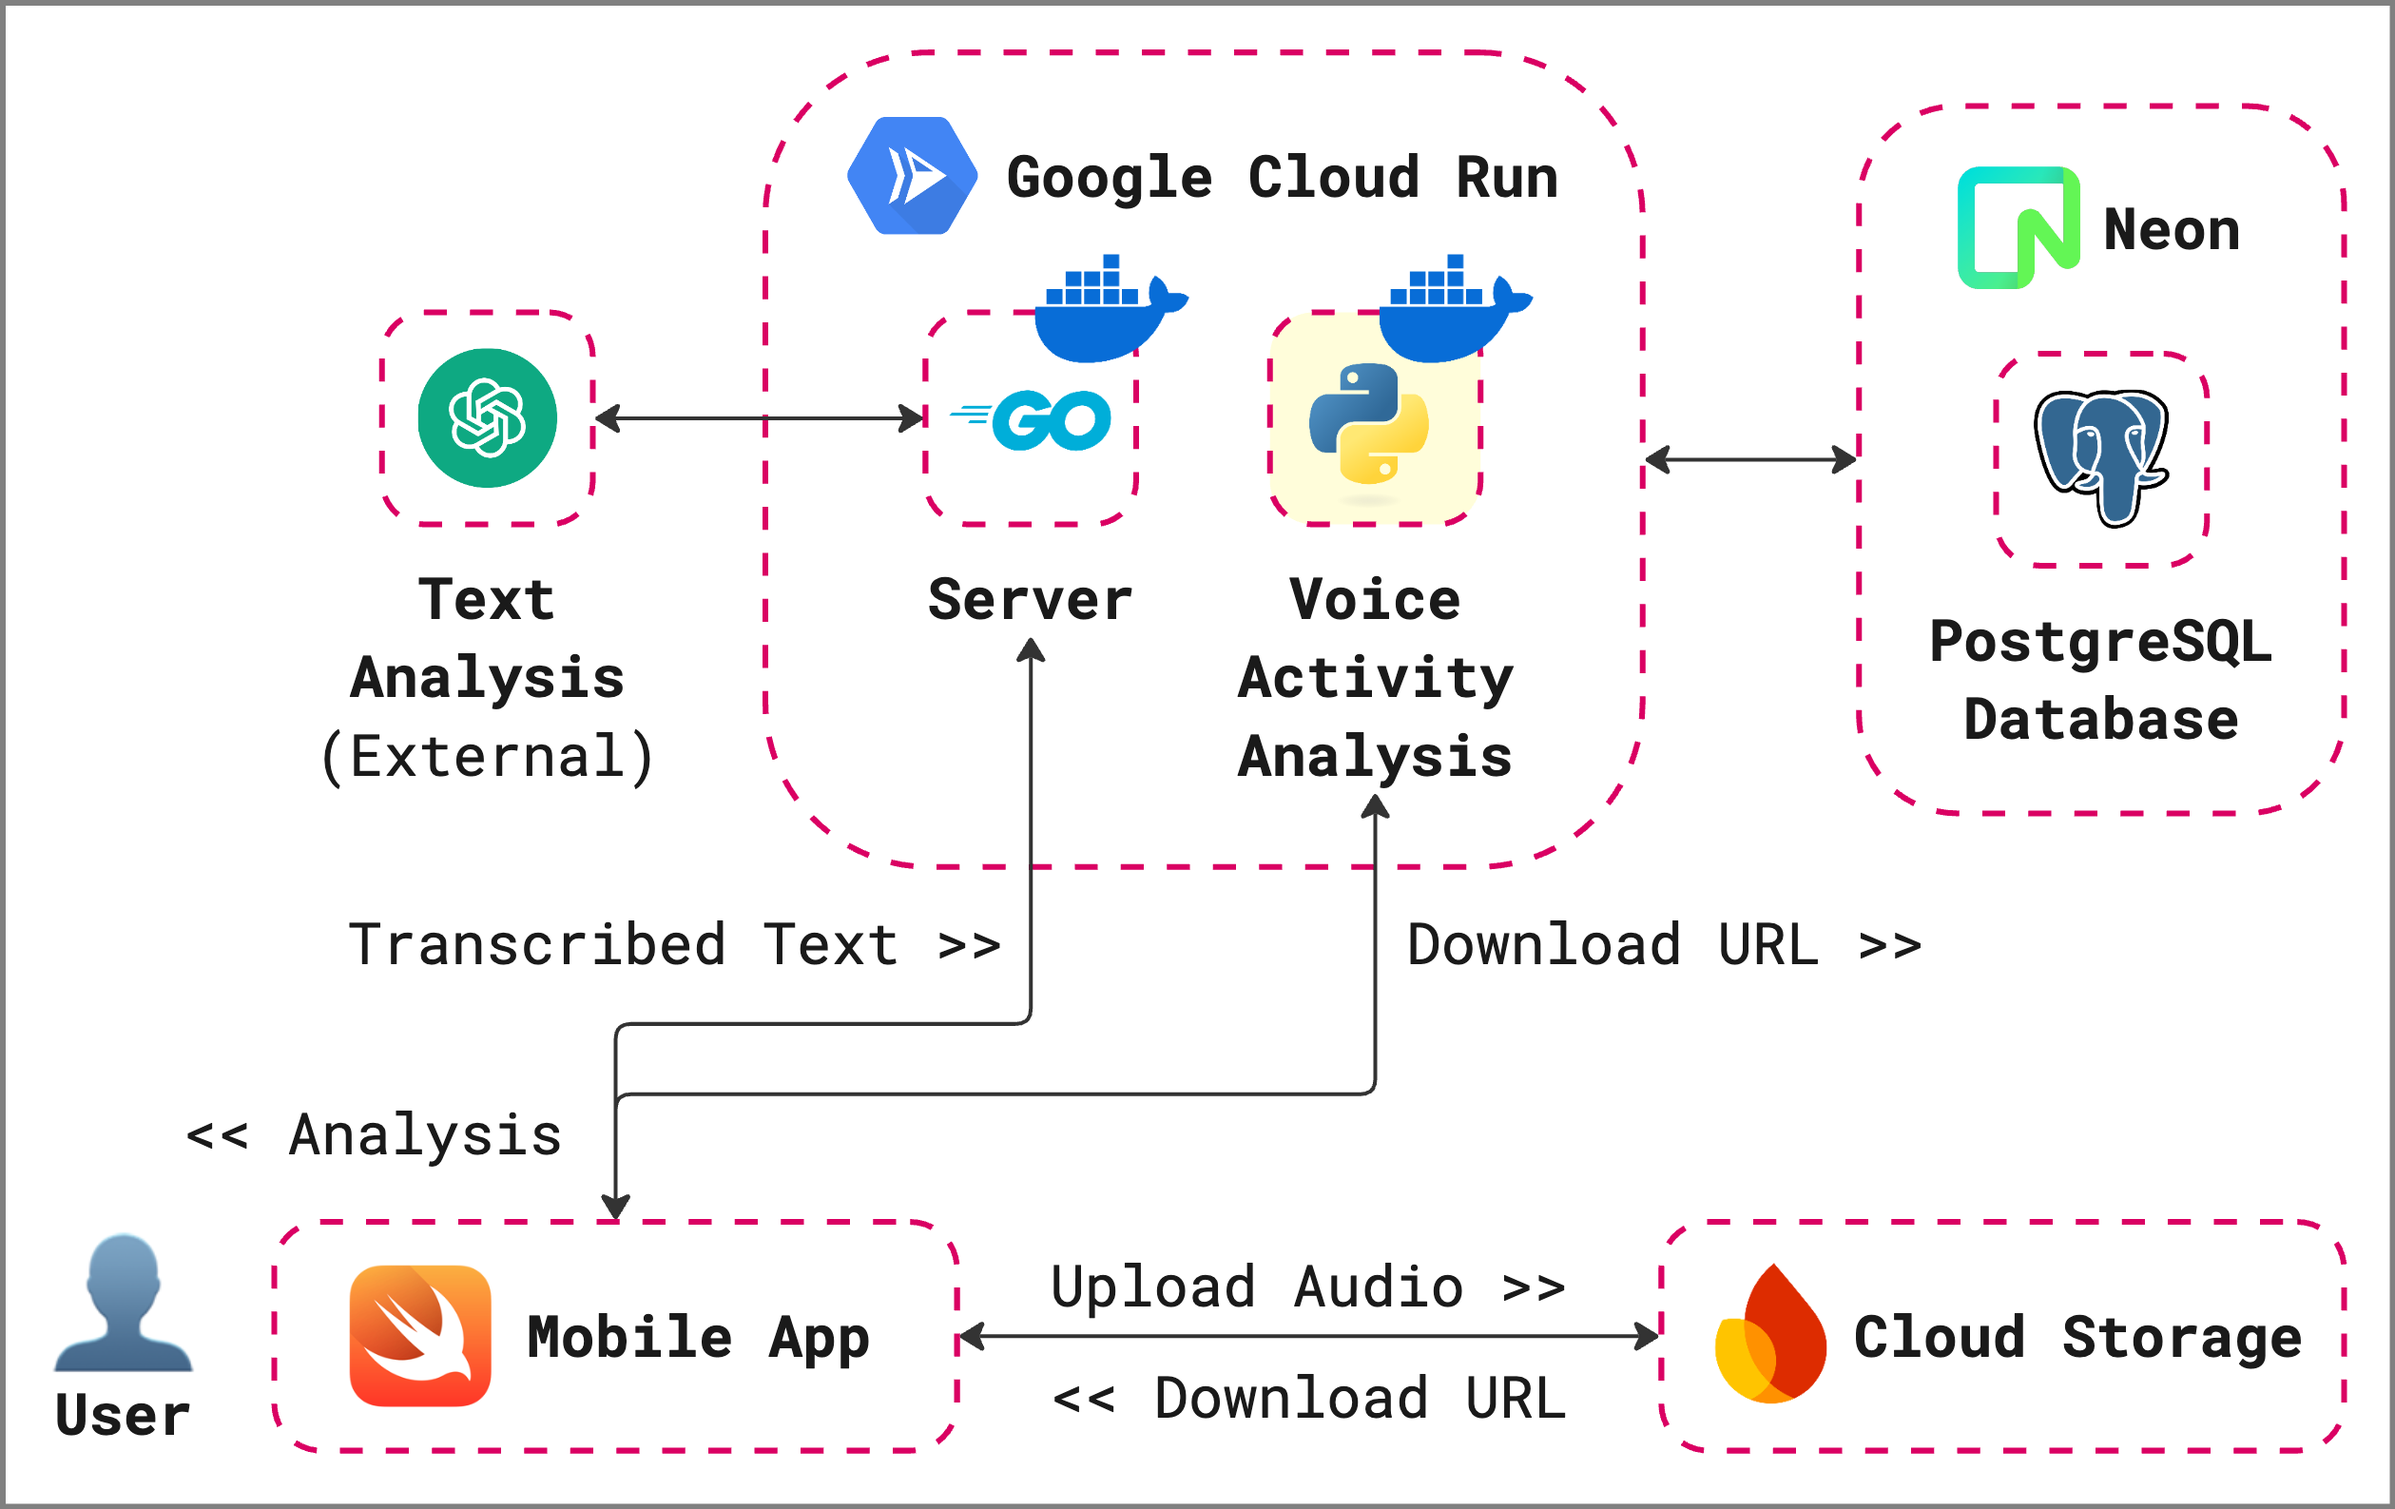
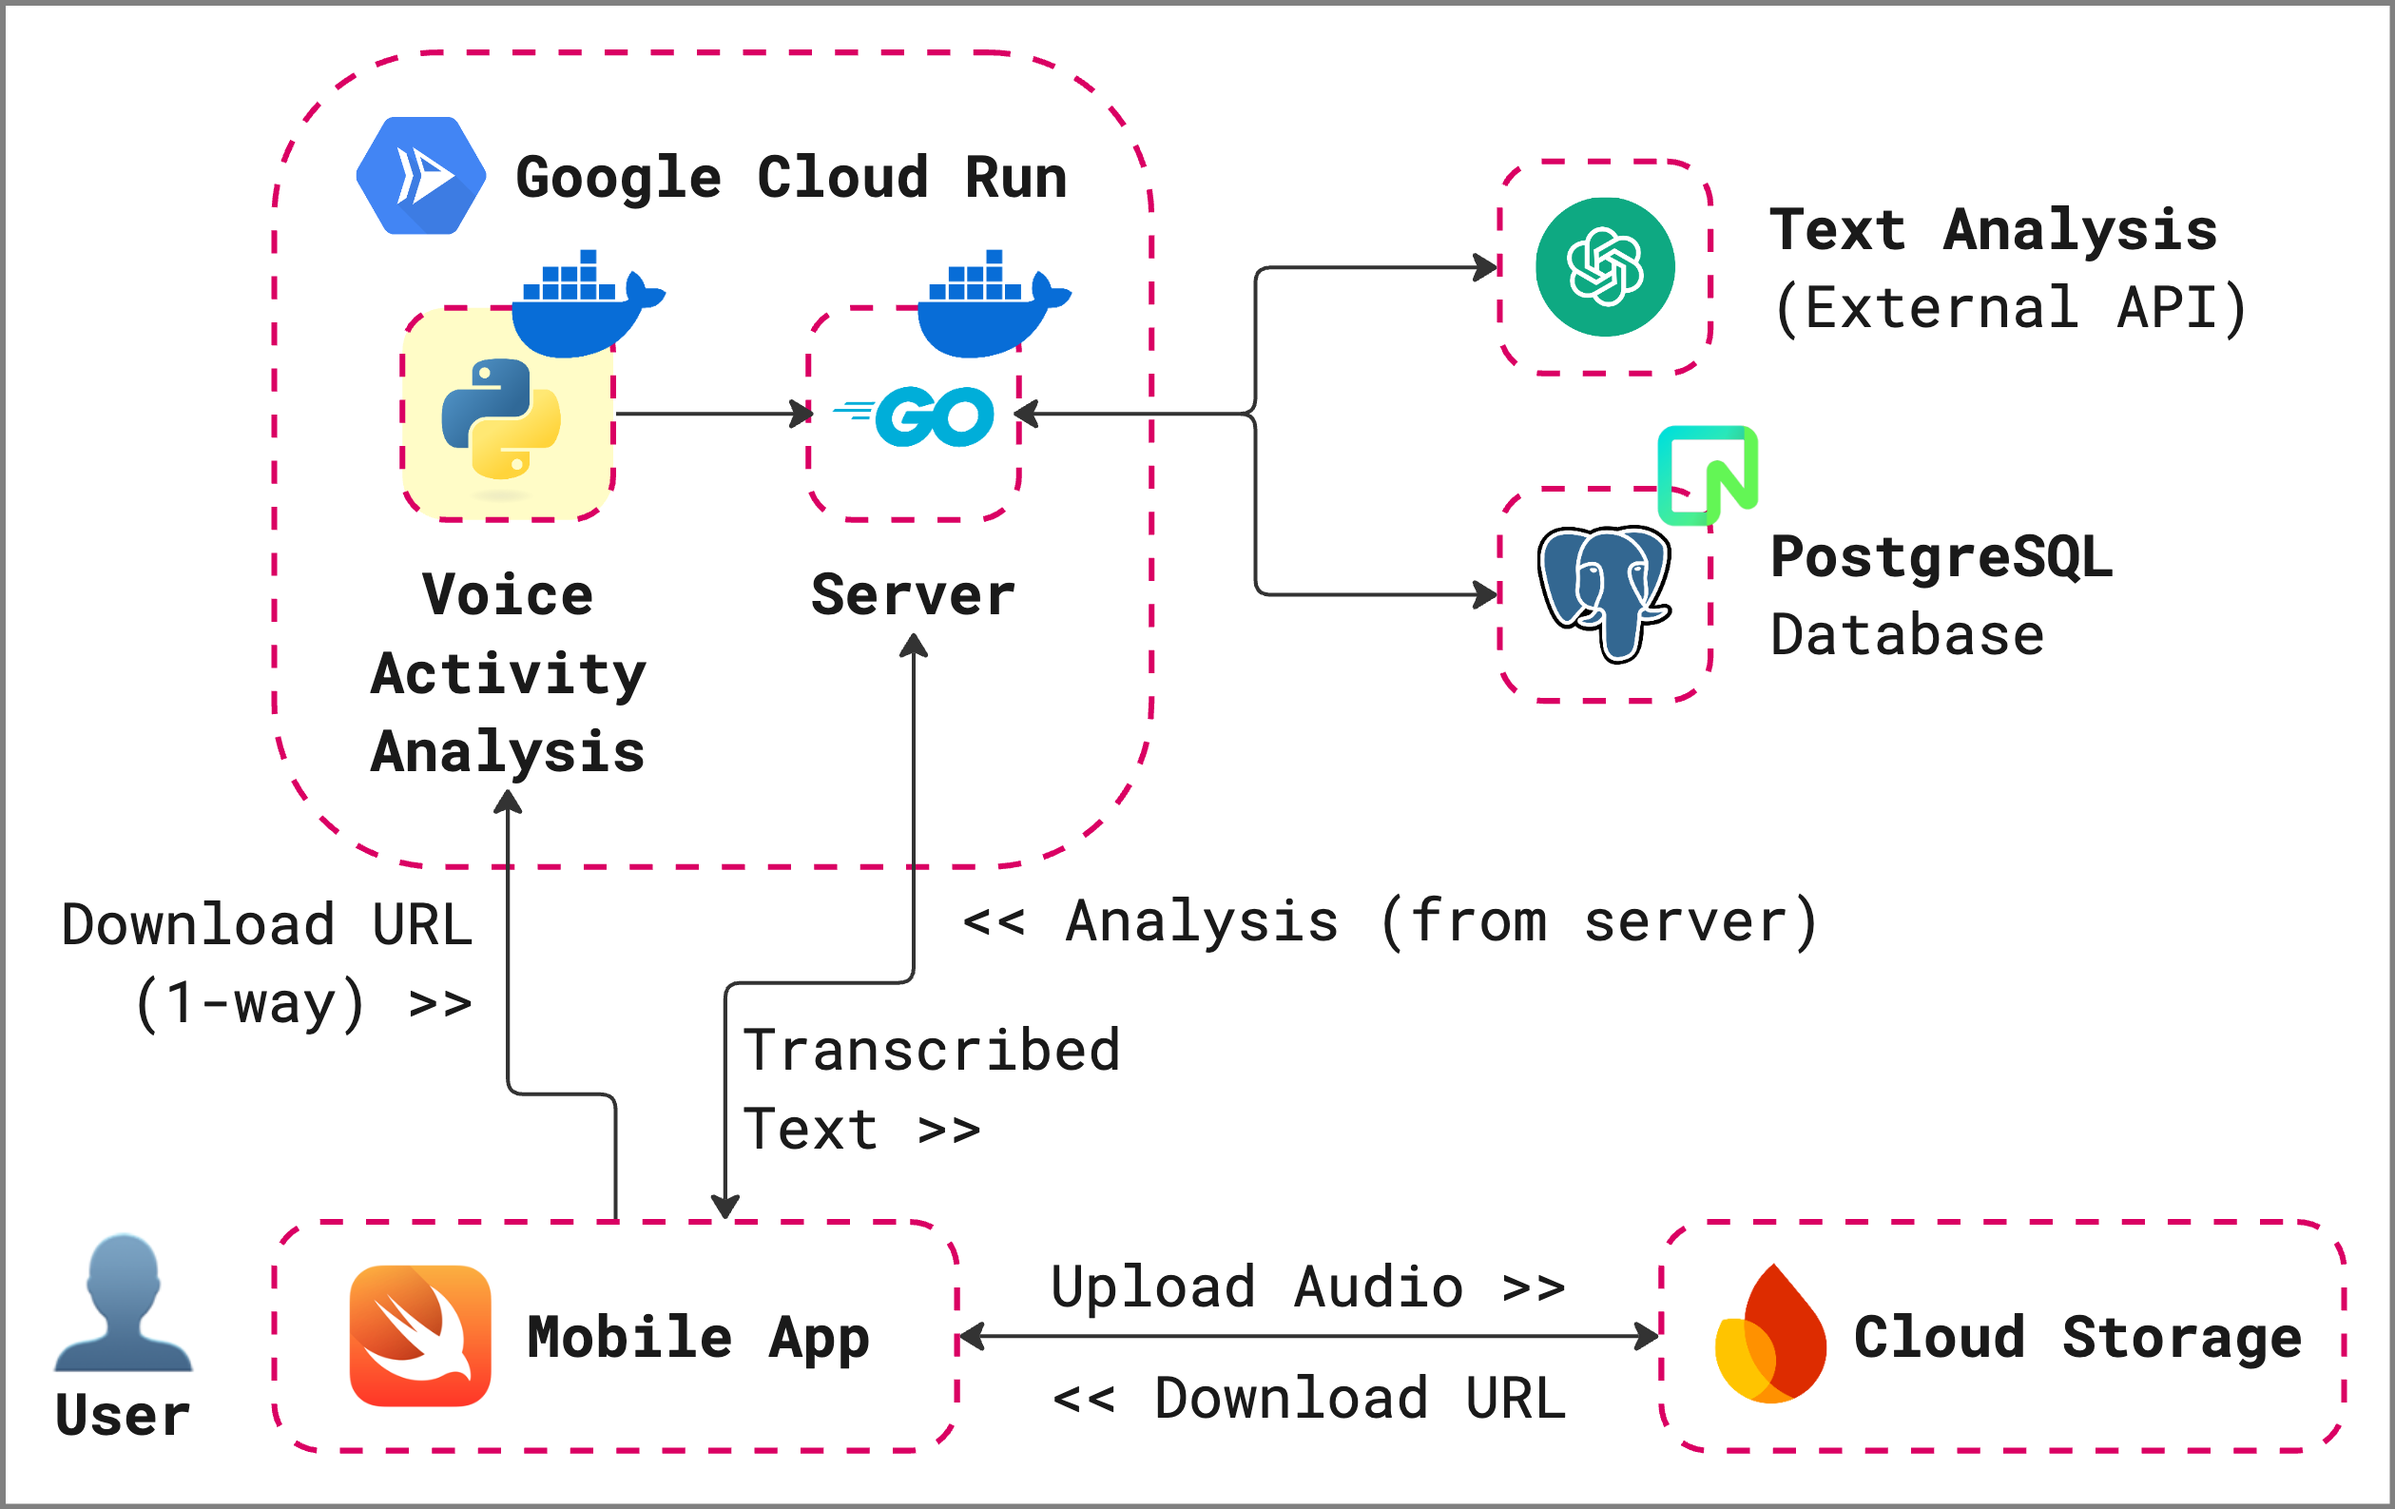
chore: update planning and diagram

diff --git a/README.md b/README.md
@@ -2,14 +2,10 @@
 
 ![Python](https://img.shields.io/badge/python-3670A0?style=for-the-badge&logo=python&logoColor=ffdd54)
 ![FastAPI](https://img.shields.io/badge/FastAPI-005571?style=for-the-badge&logo=fastapi)
-![NumPy](https://img.shields.io/badge/numpy-%23013243.svg?style=for-the-badge&logo=numpy&logoColor=white)
-![Pandas](https://img.shields.io/badge/pandas-%23150458.svg?style=for-the-badge&logo=pandas&logoColor=white)
-![scikit-learn](https://img.shields.io/badge/scikit--learn-%23F7931E.svg?style=for-the-badge&logo=scikit-learn&logoColor=white)
-![Postgres](https://img.shields.io/badge/postgres-%23316192.svg?style=for-the-badge&logo=postgresql&logoColor=white)
 ![Docker](https://img.shields.io/badge/docker-%230db7ed.svg?style=for-the-badge&logo=docker&logoColor=white)
 ![Google Cloud](https://img.shields.io/badge/GoogleCloud-%234285F4.svg?style=for-the-badge&logo=google-cloud&logoColor=white)
 
-This Voice Activity Detection (VAD) service was developed for [HealthHack 2025](https://healthhack.sg/). It analyzes recorded speech to detect pause durations, number of pauses, pause locations, speech segment length, and response delays, which are factors associated with cognitive decline.
+This Voice Activity Detection (VAD) service was developed for [HealthHack 2025](https://healthhack.sg/). It analyzes recorded speech to detect pause durations, number of pauses, pause locations, speech segment length, and response delays, which are factors associated with cognitive decline.d
 
 The service processes conversations between an AI agent and users, helping identify early signs of dementia in older adults or track changes in user response patterns over time.
 
@@ -19,11 +15,10 @@ The service processes conversations between an AI agent and users, helping ident
 
 ## Development Roadmap
 
-- [ ] Build an audio processing pipeline to convert recorded speech (.wav) into structured data.
-- [ ] Implement pause detection and related speech metrics analysis.
-- [ ] Develop lightweight machine learning models to compare metrics against user history.
-- [ ] Create a FastAPI service to integrate all components and return analysis results.
-- [ ] Containerize with Docker and deploy on Google Cloud Run for mobile app testing.
+- [ ] Develop an audio processing pipeline to convert recorded speech (.wav) into structured data.
+- [ ] Implement pause detection and speech metrics analysis, sending results to the Go server for database actions.
+- [ ] Create a FastAPI service to receive the audio file URLs from mobile app requests.
+- [ ] Containerize the service with Docker and deploy it on Google Cloud Run for mobile app testing.
 
 ## Getting Started
 
